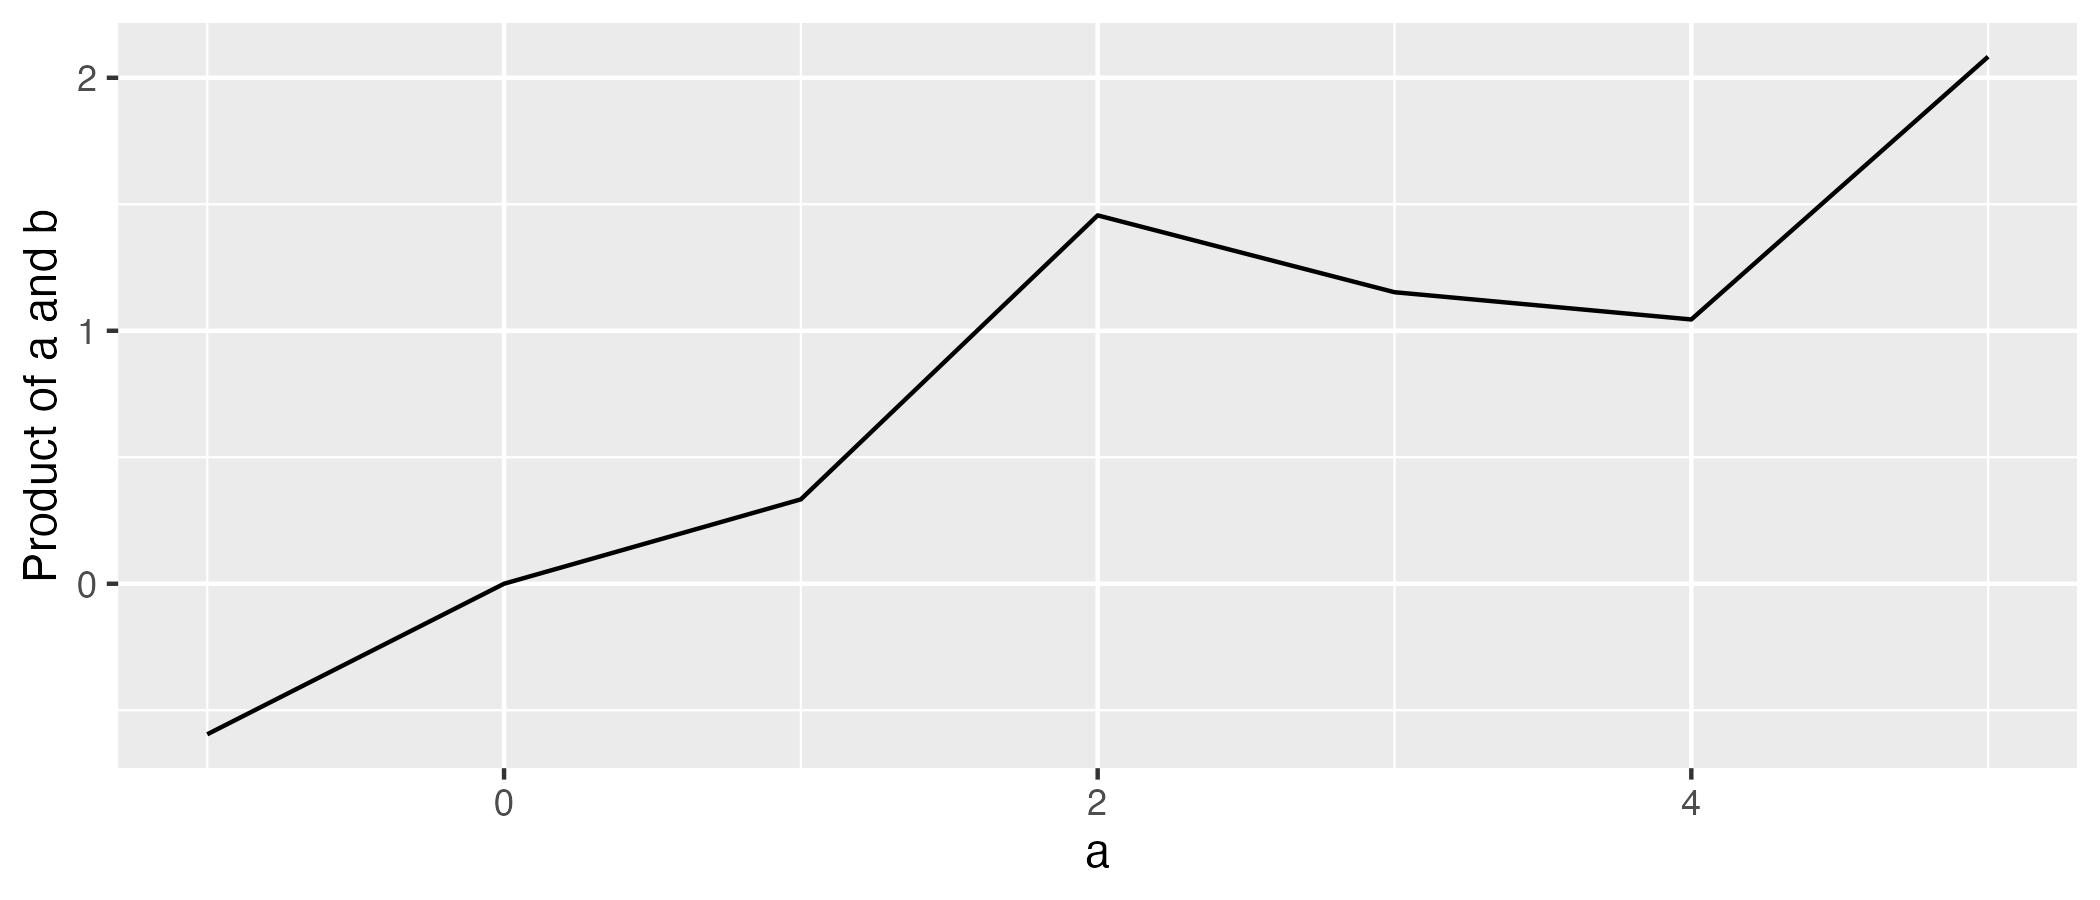
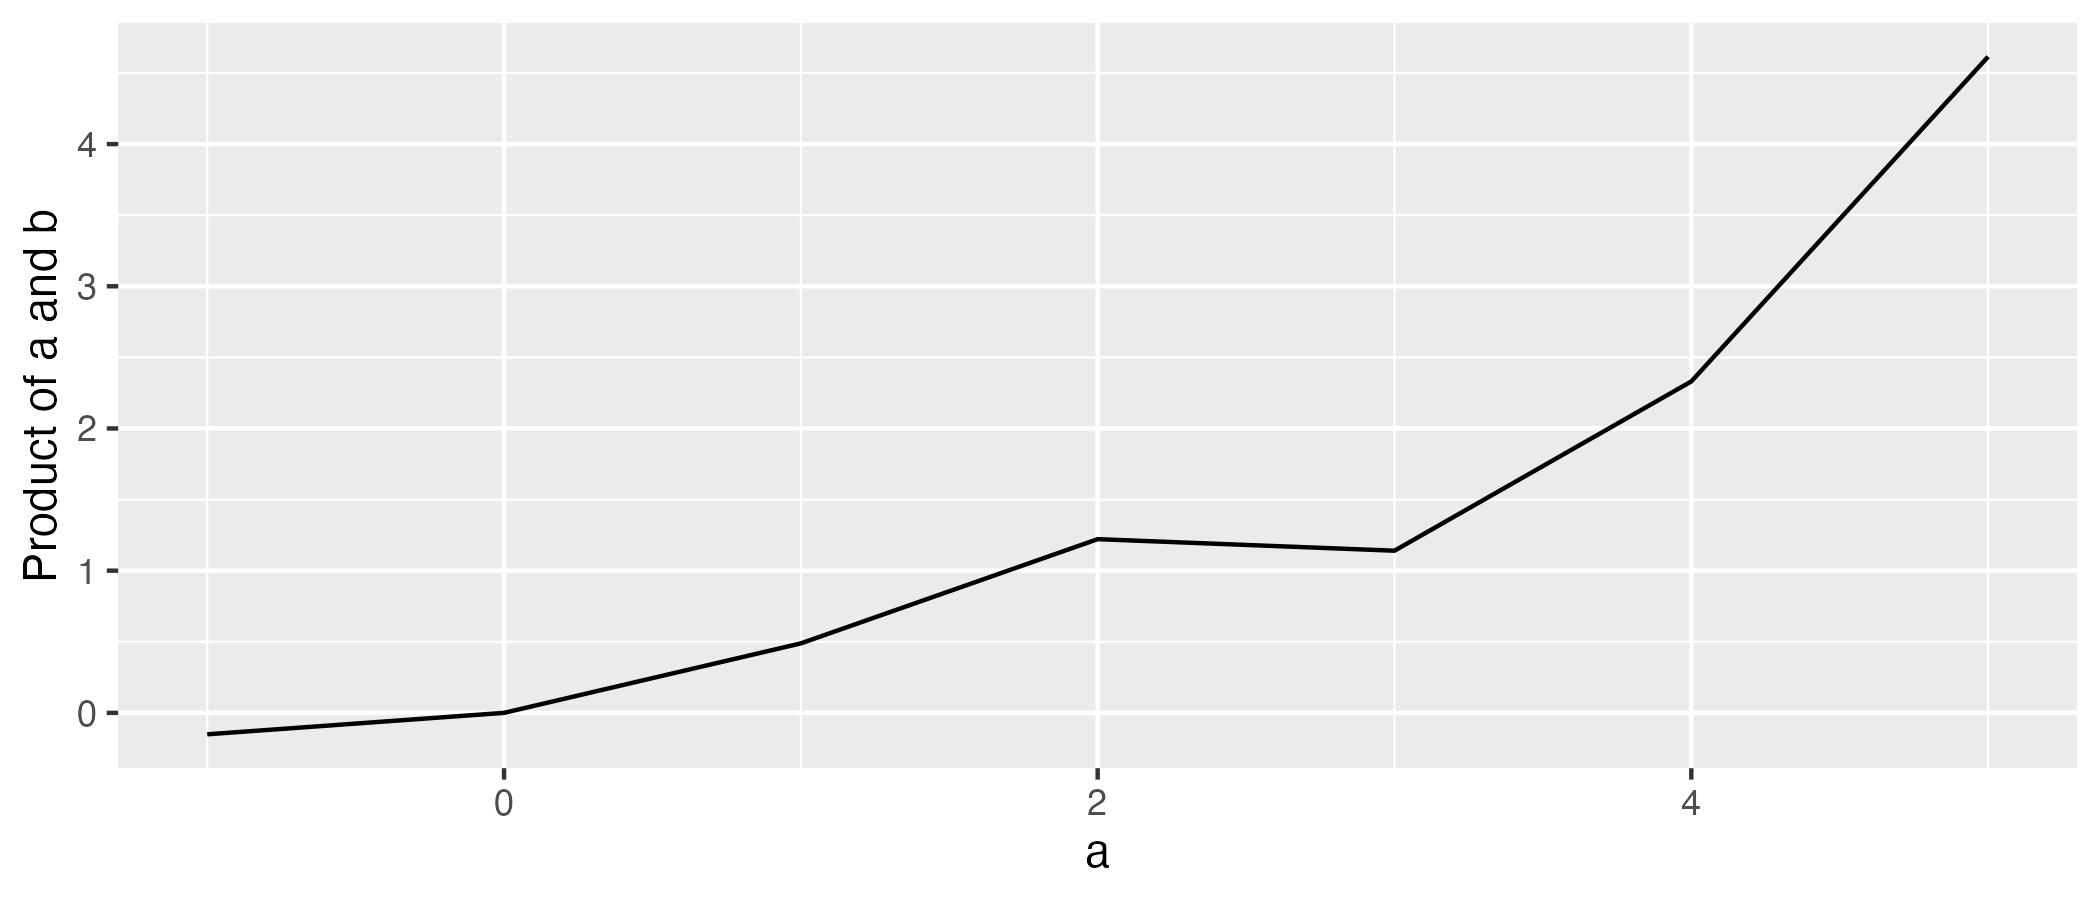
tweak to ch5 intro

diff --git a/docs/01-trees_and_people.html b/docs/01-trees_and_people.html
@@ -406,40 +406,43 @@ window.Quarto = {
 <span id="cb1-18"><a href="#cb1-18" aria-hidden="true" tabindex="-1"></a>d <span class="ot">&lt;-</span> <span class="fu">read_sheet</span>(<span class="st">"https://docs.google.com/spreadsheets/d/1uYCuTziJiLNvVOQ9Q65BxdWcNgDF6EnF8L1T3O_yATw/edit#gid=0"</span>,</span>
 <span id="cb1-19"><a href="#cb1-19" aria-hidden="true" tabindex="-1"></a>                <span class="at">skip=</span><span class="dv">2</span>)</span></code></pre></div><button title="Copy to Clipboard" class="code-copy-button"><i class="bi"></i></button></div>
 <div class="cell-output cell-output-stderr">
+<pre><code>Auto-refreshing stale OAuth token.</code></pre>
+</div>
+<div class="cell-output cell-output-stderr">
 <pre><code>✔ Reading from "iTree_OurTrees".</code></pre>
 </div>
 <div class="cell-output cell-output-stderr">
 <pre><code>✔ Range '3:10000000'.</code></pre>
 </div>
-<div class="code-copy-outer-scaffold"><div class="sourceCode cell-code" id="cb4"><pre class="sourceCode r code-with-copy"><code class="sourceCode r"><span id="cb4-1"><a href="#cb4-1" aria-hidden="true" tabindex="-1"></a><span class="co"># Uncomment to show us the names of the variables</span></span>
-<span id="cb4-2"><a href="#cb4-2" aria-hidden="true" tabindex="-1"></a><span class="co"># names(d)</span></span>
-<span id="cb4-3"><a href="#cb4-3" aria-hidden="true" tabindex="-1"></a></span>
-<span id="cb4-4"><a href="#cb4-4" aria-hidden="true" tabindex="-1"></a><span class="co"># make a scatterplot</span></span>
-<span id="cb4-5"><a href="#cb4-5" aria-hidden="true" tabindex="-1"></a>plot1 <span class="ot">&lt;-</span> <span class="fu">ggplot</span>(<span class="at">data=</span>d, <span class="fu">aes</span>(<span class="at">x=</span>Median_Income, </span>
-<span id="cb4-6"><a href="#cb4-6" aria-hidden="true" tabindex="-1"></a>                   <span class="at">y=</span>Tree_canopy_cover, </span>
-<span id="cb4-7"><a href="#cb4-7" aria-hidden="true" tabindex="-1"></a>                   <span class="at">label=</span><span class="st">`</span><span class="at">City (only)</span><span class="st">`</span>)) <span class="sc">+</span> <span class="fu">geom_text</span>() <span class="sc">+</span></span>
-<span id="cb4-8"><a href="#cb4-8" aria-hidden="true" tabindex="-1"></a>  <span class="fu">labs</span>(<span class="at">y=</span><span class="st">"Tree cover (%)"</span>, <span class="at">x=</span><span class="st">"Median income"</span>, <span class="at">title=</span><span class="st">"No relation twixt tree cover and income?"</span>)</span>
-<span id="cb4-9"><a href="#cb4-9" aria-hidden="true" tabindex="-1"></a></span>
-<span id="cb4-10"><a href="#cb4-10" aria-hidden="true" tabindex="-1"></a><span class="fu">ggsave</span>(<span class="st">"myCoverIncome_text.png"</span>, <span class="at">plot=</span>plot1, <span class="at">width=</span><span class="dv">10</span>, <span class="at">height =</span> <span class="dv">10</span>)</span>
-<span id="cb4-11"><a href="#cb4-11" aria-hidden="true" tabindex="-1"></a></span>
-<span id="cb4-12"><a href="#cb4-12" aria-hidden="true" tabindex="-1"></a>plot2 <span class="ot">&lt;-</span> <span class="fu">ggplot</span>(<span class="at">data=</span>d, <span class="fu">aes</span>(<span class="at">x=</span>Median_Income, </span>
-<span id="cb4-13"><a href="#cb4-13" aria-hidden="true" tabindex="-1"></a>                   <span class="at">y=</span>Tree_canopy_cover, </span>
-<span id="cb4-14"><a href="#cb4-14" aria-hidden="true" tabindex="-1"></a>                   <span class="at">label=</span><span class="st">`</span><span class="at">City (only)</span><span class="st">`</span>)) <span class="sc">+</span> </span>
-<span id="cb4-15"><a href="#cb4-15" aria-hidden="true" tabindex="-1"></a>  <span class="fu">geom_point</span>() <span class="sc">+</span></span>
-<span id="cb4-16"><a href="#cb4-16" aria-hidden="true" tabindex="-1"></a>  <span class="fu">labs</span>(<span class="at">y=</span><span class="st">"Tree cover (%)"</span>, <span class="at">x=</span><span class="st">"Median income"</span>, <span class="at">title=</span><span class="st">"No relation twixt tree cover and income?"</span>)</span>
-<span id="cb4-17"><a href="#cb4-17" aria-hidden="true" tabindex="-1"></a></span>
-<span id="cb4-18"><a href="#cb4-18" aria-hidden="true" tabindex="-1"></a><span class="co"># save the figure (dimensions in inches)</span></span>
-<span id="cb4-19"><a href="#cb4-19" aria-hidden="true" tabindex="-1"></a><span class="fu">ggsave</span>(<span class="st">"myCoverIncome_points.png"</span>, <span class="at">plot=</span>plot2, <span class="at">width=</span><span class="dv">7</span>, <span class="at">height =</span> <span class="dv">7</span>)</span></code></pre></div><button title="Copy to Clipboard" class="code-copy-button"><i class="bi"></i></button></div>
+<div class="code-copy-outer-scaffold"><div class="sourceCode cell-code" id="cb5"><pre class="sourceCode r code-with-copy"><code class="sourceCode r"><span id="cb5-1"><a href="#cb5-1" aria-hidden="true" tabindex="-1"></a><span class="co"># Uncomment to show us the names of the variables</span></span>
+<span id="cb5-2"><a href="#cb5-2" aria-hidden="true" tabindex="-1"></a><span class="co"># names(d)</span></span>
+<span id="cb5-3"><a href="#cb5-3" aria-hidden="true" tabindex="-1"></a></span>
+<span id="cb5-4"><a href="#cb5-4" aria-hidden="true" tabindex="-1"></a><span class="co"># make a scatterplot</span></span>
+<span id="cb5-5"><a href="#cb5-5" aria-hidden="true" tabindex="-1"></a>plot1 <span class="ot">&lt;-</span> <span class="fu">ggplot</span>(<span class="at">data=</span>d, <span class="fu">aes</span>(<span class="at">x=</span>Median_Income, </span>
+<span id="cb5-6"><a href="#cb5-6" aria-hidden="true" tabindex="-1"></a>                   <span class="at">y=</span>Tree_canopy_cover, </span>
+<span id="cb5-7"><a href="#cb5-7" aria-hidden="true" tabindex="-1"></a>                   <span class="at">label=</span><span class="st">`</span><span class="at">City (only)</span><span class="st">`</span>)) <span class="sc">+</span> <span class="fu">geom_text</span>() <span class="sc">+</span></span>
+<span id="cb5-8"><a href="#cb5-8" aria-hidden="true" tabindex="-1"></a>  <span class="fu">labs</span>(<span class="at">y=</span><span class="st">"Tree cover (%)"</span>, <span class="at">x=</span><span class="st">"Median income"</span>, <span class="at">title=</span><span class="st">"No relation twixt tree cover and income?"</span>)</span>
+<span id="cb5-9"><a href="#cb5-9" aria-hidden="true" tabindex="-1"></a></span>
+<span id="cb5-10"><a href="#cb5-10" aria-hidden="true" tabindex="-1"></a><span class="fu">ggsave</span>(<span class="st">"myCoverIncome_text.png"</span>, <span class="at">plot=</span>plot1, <span class="at">width=</span><span class="dv">10</span>, <span class="at">height =</span> <span class="dv">10</span>)</span>
+<span id="cb5-11"><a href="#cb5-11" aria-hidden="true" tabindex="-1"></a></span>
+<span id="cb5-12"><a href="#cb5-12" aria-hidden="true" tabindex="-1"></a>plot2 <span class="ot">&lt;-</span> <span class="fu">ggplot</span>(<span class="at">data=</span>d, <span class="fu">aes</span>(<span class="at">x=</span>Median_Income, </span>
+<span id="cb5-13"><a href="#cb5-13" aria-hidden="true" tabindex="-1"></a>                   <span class="at">y=</span>Tree_canopy_cover, </span>
+<span id="cb5-14"><a href="#cb5-14" aria-hidden="true" tabindex="-1"></a>                   <span class="at">label=</span><span class="st">`</span><span class="at">City (only)</span><span class="st">`</span>)) <span class="sc">+</span> </span>
+<span id="cb5-15"><a href="#cb5-15" aria-hidden="true" tabindex="-1"></a>  <span class="fu">geom_point</span>() <span class="sc">+</span></span>
+<span id="cb5-16"><a href="#cb5-16" aria-hidden="true" tabindex="-1"></a>  <span class="fu">labs</span>(<span class="at">y=</span><span class="st">"Tree cover (%)"</span>, <span class="at">x=</span><span class="st">"Median income"</span>, <span class="at">title=</span><span class="st">"No relation twixt tree cover and income?"</span>)</span>
+<span id="cb5-17"><a href="#cb5-17" aria-hidden="true" tabindex="-1"></a></span>
+<span id="cb5-18"><a href="#cb5-18" aria-hidden="true" tabindex="-1"></a><span class="co"># save the figure (dimensions in inches)</span></span>
+<span id="cb5-19"><a href="#cb5-19" aria-hidden="true" tabindex="-1"></a><span class="fu">ggsave</span>(<span class="st">"myCoverIncome_points.png"</span>, <span class="at">plot=</span>plot2, <span class="at">width=</span><span class="dv">7</span>, <span class="at">height =</span> <span class="dv">7</span>)</span></code></pre></div><button title="Copy to Clipboard" class="code-copy-button"><i class="bi"></i></button></div>
 </div>
 <p>Here is a subset of data I collected on the places where members of my family lives.</p>
 <div class="cell">
-<div class="code-copy-outer-scaffold"><div class="sourceCode cell-code" id="cb5"><pre class="sourceCode r code-with-copy"><code class="sourceCode r"><span id="cb5-1"><a href="#cb5-1" aria-hidden="true" tabindex="-1"></a>d10 <span class="ot">&lt;-</span> d[<span class="dv">1</span><span class="sc">:</span><span class="dv">10</span>,]</span>
-<span id="cb5-2"><a href="#cb5-2" aria-hidden="true" tabindex="-1"></a>myPlot <span class="ot">&lt;-</span> <span class="fu">ggplot</span>(<span class="at">data=</span>d10, <span class="fu">aes</span>(<span class="at">x=</span>Median_Income, </span>
-<span id="cb5-3"><a href="#cb5-3" aria-hidden="true" tabindex="-1"></a>                   <span class="at">y=</span>Tree_canopy_cover, </span>
-<span id="cb5-4"><a href="#cb5-4" aria-hidden="true" tabindex="-1"></a>                   <span class="at">label=</span><span class="st">`</span><span class="at">City (only)</span><span class="st">`</span>)) <span class="sc">+</span> <span class="fu">geom_text</span>() <span class="sc">+</span></span>
-<span id="cb5-5"><a href="#cb5-5" aria-hidden="true" tabindex="-1"></a>  <span class="fu">labs</span>(<span class="at">y=</span><span class="st">"Tree cover (%)"</span>, <span class="at">x=</span><span class="st">"Median income"</span>, <span class="at">title=</span><span class="st">"No relation twixt tree cover and income?"</span>)</span>
-<span id="cb5-6"><a href="#cb5-6" aria-hidden="true" tabindex="-1"></a></span>
-<span id="cb5-7"><a href="#cb5-7" aria-hidden="true" tabindex="-1"></a>myPlot</span></code></pre></div><button title="Copy to Clipboard" class="code-copy-button"><i class="bi"></i></button></div>
+<div class="code-copy-outer-scaffold"><div class="sourceCode cell-code" id="cb6"><pre class="sourceCode r code-with-copy"><code class="sourceCode r"><span id="cb6-1"><a href="#cb6-1" aria-hidden="true" tabindex="-1"></a>d10 <span class="ot">&lt;-</span> d[<span class="dv">1</span><span class="sc">:</span><span class="dv">10</span>,]</span>
+<span id="cb6-2"><a href="#cb6-2" aria-hidden="true" tabindex="-1"></a>myPlot <span class="ot">&lt;-</span> <span class="fu">ggplot</span>(<span class="at">data=</span>d10, <span class="fu">aes</span>(<span class="at">x=</span>Median_Income, </span>
+<span id="cb6-3"><a href="#cb6-3" aria-hidden="true" tabindex="-1"></a>                   <span class="at">y=</span>Tree_canopy_cover, </span>
+<span id="cb6-4"><a href="#cb6-4" aria-hidden="true" tabindex="-1"></a>                   <span class="at">label=</span><span class="st">`</span><span class="at">City (only)</span><span class="st">`</span>)) <span class="sc">+</span> <span class="fu">geom_text</span>() <span class="sc">+</span></span>
+<span id="cb6-5"><a href="#cb6-5" aria-hidden="true" tabindex="-1"></a>  <span class="fu">labs</span>(<span class="at">y=</span><span class="st">"Tree cover (%)"</span>, <span class="at">x=</span><span class="st">"Median income"</span>, <span class="at">title=</span><span class="st">"No relation twixt tree cover and income?"</span>)</span>
+<span id="cb6-6"><a href="#cb6-6" aria-hidden="true" tabindex="-1"></a></span>
+<span id="cb6-7"><a href="#cb6-7" aria-hidden="true" tabindex="-1"></a>myPlot</span></code></pre></div><button title="Copy to Clipboard" class="code-copy-button"><i class="bi"></i></button></div>
 <div class="cell-output-display">
 <div id="fig-data" class="quarto-float quarto-figure quarto-figure-center anchored">
 <figure class="quarto-float quarto-float-fig figure">

diff --git a/docs/01-computer-setup.html b/docs/01-computer-setup.html
@@ -686,7 +686,7 @@ window.Quarto = {
 <div class="code-copy-outer-scaffold"><div class="sourceCode cell-code" id="cb16"><pre class="sourceCode r code-with-copy"><code class="sourceCode r"><span id="cb16-1"><a href="#cb16-1" aria-hidden="true" tabindex="-1"></a>b <span class="ot">&lt;-</span> <span class="fu">runif</span>(<span class="dv">7</span>, <span class="at">min=</span><span class="dv">0</span>, <span class="at">max=</span><span class="dv">1</span>)</span>
 <span id="cb16-2"><a href="#cb16-2" aria-hidden="true" tabindex="-1"></a>b</span></code></pre></div><button title="Copy to Clipboard" class="code-copy-button"><i class="bi"></i></button></div>
 <div class="cell-output cell-output-stdout">
-<pre><code>[1] 0.5952251 0.6460233 0.3335534 0.7280361 0.3841194 0.2611528 0.4166566</code></pre>
+<pre><code>[1] 0.1508234 0.1064575 0.4886370 0.6107624 0.3801129 0.5826969 0.9228692</code></pre>
 </div>
 </div>
 <p>These will differ every time you do this.</p>
@@ -701,11 +701,11 @@ window.Quarto = {
 </div>
 <div class="code-copy-outer-scaffold"><div class="sourceCode cell-code" id="cb20"><pre class="sourceCode r code-with-copy"><code class="sourceCode r"><span id="cb20-1"><a href="#cb20-1" aria-hidden="true" tabindex="-1"></a>b</span></code></pre></div><button title="Copy to Clipboard" class="code-copy-button"><i class="bi"></i></button></div>
 <div class="cell-output cell-output-stdout">
-<pre><code>[1] 0.5952251 0.6460233 0.3335534 0.7280361 0.3841194 0.2611528 0.4166566</code></pre>
+<pre><code>[1] 0.1508234 0.1064575 0.4886370 0.6107624 0.3801129 0.5826969 0.9228692</code></pre>
 </div>
 <div class="code-copy-outer-scaffold"><div class="sourceCode cell-code" id="cb22"><pre class="sourceCode r code-with-copy"><code class="sourceCode r"><span id="cb22-1"><a href="#cb22-1" aria-hidden="true" tabindex="-1"></a>ab</span></code></pre></div><button title="Copy to Clipboard" class="code-copy-button"><i class="bi"></i></button></div>
 <div class="cell-output cell-output-stdout">
-<pre><code>[1] -0.5952251  0.0000000  0.3335534  1.4560722  1.1523583  1.0446112  2.0832828</code></pre>
+<pre><code>[1] -0.1508234  0.0000000  0.4886370  1.2215247  1.1403388  2.3307875  4.6143460</code></pre>
 </div>
 </div>
 <p>You can confirm at a glance that the first and second elements in <code>a</code> times the first and second elements in <code>b</code> equal the first and second elements in <code>ab</code>.</p>
@@ -719,13 +719,13 @@ window.Quarto = {
 <span id="cb24-2"><a href="#cb24-2" aria-hidden="true" tabindex="-1"></a>d</span></code></pre></div><button title="Copy to Clipboard" class="code-copy-button"><i class="bi"></i></button></div>
 <div class="cell-output cell-output-stdout">
 <pre><code>   a         b  a_times_b
-1 -1 0.5952251 -0.5952251
-2  0 0.6460233  0.0000000
-3  1 0.3335534  0.3335534
-4  2 0.7280361  1.4560722
-5  3 0.3841194  1.1523583
-6  4 0.2611528  1.0446112
-7  5 0.4166566  2.0832828</code></pre>
+1 -1 0.1508234 -0.1508234
+2  0 0.1064575  0.0000000
+3  1 0.4886370  0.4886370
+4  2 0.6107624  1.2215247
+5  3 0.3801129  1.1403388
+6  4 0.5826969  2.3307875
+7  5 0.9228692  4.6143460</code></pre>
 </div>
 </div>
 <p>You could examine the structure of this data frame with <code>str()</code>.</p>
@@ -734,8 +734,8 @@ window.Quarto = {
 <div class="cell-output cell-output-stdout">
 <pre><code>'data.frame':   7 obs. of  3 variables:
  $ a        : int  -1 0 1 2 3 4 5
- $ b        : num  0.595 0.646 0.334 0.728 0.384 ...
- $ a_times_b: num  -0.595 0 0.334 1.456 1.152 ...</code></pre>
+ $ b        : num  0.151 0.106 0.489 0.611 0.38 ...
+ $ a_times_b: num  -0.151 0 0.489 1.222 1.14 ...</code></pre>
 </div>
 </div>
 <p>You will also notice now that you can see all of our objects in the Environment pane, in the upper right of RStudio.</p>

diff --git a/docs/04-extrapair_copulation.html b/docs/04-extrapair_copulation.html
@@ -332,10 +332,7 @@ Figure&nbsp;5.1: Voles are small hamster-like rodents that live in grasslands an
 </section>
 <section id="preparatory-steps" class="level2" data-number="5.2">
 <h2 data-number="5.2" class="anchored" data-anchor-id="preparatory-steps"><span class="header-section-number">5.2</span> Preparatory Steps</h2>
-<ul>
-<li>Watch three video lectures on <a href="https://drive.google.com/drive/folders/1nWLoEGuWKIWdul9Uvse5qiB1Hf8MCwUv?usp=sharing">evolution, life history, and behavior</a></li>
-<li>Download Solomon and Keane (2018), which is available in <a href="https://drive.google.com/drive/folders/1opLlrmF7kfo0FtWwwJ1CbfPWIyuaISC1?usp=share_link" target="_blank">our PDF archive</a>. Read the introduction to help you understand the context of this chapter.</li>
-</ul>
+<p>Download Keane et al.&nbsp;(2024), which is available in <a href="https://drive.google.com/drive/folders/1opLlrmF7kfo0FtWwwJ1CbfPWIyuaISC1?usp=share_link" target="_blank">our PDF archive</a>. Read the introduction to help you understand the context of this chapter.</p>
 </section>
 <section id="background-what-causes-extra-pair-copulation-in-prairie-voles" class="level2" data-number="5.3">
 <h2 data-number="5.3" class="anchored" data-anchor-id="background-what-causes-extra-pair-copulation-in-prairie-voles"><span class="header-section-number">5.3</span> Background: What causes extra pair copulation in prairie voles?</h2>
